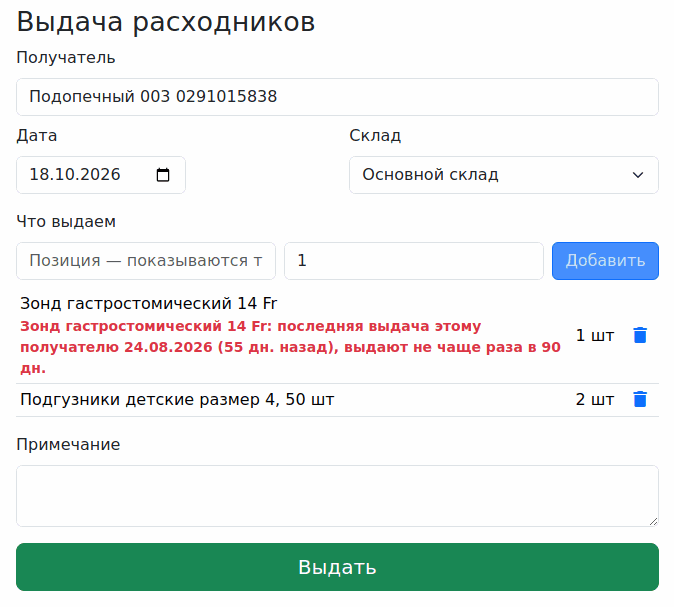
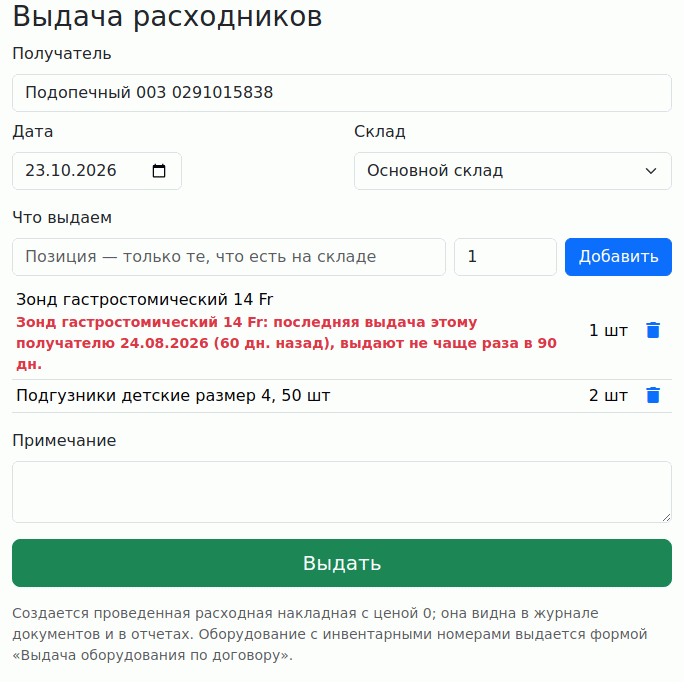
USER_GUIDE, GUIDE: top bar issue buttons, documentation link, issue journal statuses, "Mark", below minimum block on the main page; screenshots of the consumables issue, stock report and recipient card retaken

diff --git a/docs/GUIDE.ru.md b/docs/GUIDE.ru.md
@@ -17,7 +17,7 @@ SQS_LANG=ru docker compose up -d --build      # http://127.0.0.1:8083, вход 
 
 ## Начальная настройка
 
-1. **Профиль для благотворительной организации** — оставляет в меню нужное для выдачи (около 30 пунктов из 90) и выставляет настройки: учёт по серийным номерам, запрет минусовых остатков, цена выдачи 0. На главной не показываются денежные плитки (наличные, безнал, долги) и графики доходов; журнал «Продажи» называется «Выдачи» и открывается со статусом «Все» (проведённые выдачи видны сразу, возврат делается отсюда), в нём нет кнопок доставки, ТТН и гарантийного талона; группы документов «Продажи» и «Закупки» называются «Выдача» и «Поступление», «Расходная накладная» — «Выдача (накладная)», «Возврат от покупателя» — «Возврат от получателя», группа отчётов и отчёт «Закупки» — «Поступление», на странице отчёта — «Отчёт по поступлению» и разделы «Поступление по товарам», «… по поставщикам» и т. д. (название, изменённое вручную в «Настройке меню», профиль не трогает); в формах выдачи и возврата поле «Получатель», нет кассы, цен, скидки и оплаты (цена выдачи всегда 0, оплата не записывается); накладная печатается формой «Выдача № …», «Выдал / Получатель», возврат — «Вернул / Принял», обе без цен и оплаты. Строка «Выдал» — название организации из «Система → Данные компании». Возврат по выдаче, сделанной до включения профиля с ценами, сохраняет цены этой выдачи, оплата по нему не записывается, и он остаётся в статусе «Ожидает оплаты».
+1. **Профиль для благотворительной организации** — оставляет в меню нужное для выдачи (около 30 пунктов из 90) и выставляет настройки: учёт по серийным номерам, запрет минусовых остатков, цена выдачи 0. На главной не показываются денежные плитки (наличные, безнал, долги) и графики доходов, блок «Критическое количество» называется «Ниже минимального остатка» (без колонки «Поставщик», заголовок ведёт на одноимённый отчёт); журнал «Продажи» называется «Выдачи» и открывается со статусом «Все» (проведённые выдачи видны сразу, возврат делается отсюда), статусы — «Все», «Проведенные», «Не проведенные», колонка «Получатель», без «Заказа» и «Суммы», вверху кнопки «Выдача расходников» и «Выдача оборудования» (без этих форм у пользователя — «Новая выдача», накладная), в нём нет кнопок доставки, ТТН и гарантийного талона; кнопки вверху страниц (оперативное меню роли) — «Выдачи», «Выдача расходников», «Выдача оборудования по договору» вместо «Номенклатура» и «Общий журнал» (меню, настроенное вручную в «Система → Роли», профиль не трогает); пункт меню «Документация» ведёт на инструкцию склада ([USER_GUIDE.ru.md](USER_GUIDE.ru.md) на GitHub), «Тех. поддержки» (сайт автора Zippy) нет; служебный контрагент «Физ. лицо» (розничный покупатель Zippy) выключается, если по нему нет документов; в «Состоянии складов» колонки «Артикул» и «Бренд» показываются, только если хоть у одной позиции они заполнены; группы документов «Продажи» и «Закупки» называются «Выдача» и «Поступление», «Расходная накладная» — «Выдача (накладная)», «Возврат от покупателя» — «Возврат от получателя», группа отчётов и отчёт «Закупки» — «Поступление», на странице отчёта — «Отчёт по поступлению» и разделы «Поступление по товарам», «… по поставщикам» и т. д. (название, изменённое вручную в «Настройке меню», профиль не трогает); в формах выдачи и возврата поле «Получатель», нет кассы, цен, скидки и оплаты (цена выдачи всегда 0, оплата не записывается); накладная печатается формой «Выдача № …», «Выдал / Получатель», возврат — «Вернул / Принял», обе без цен и оплаты. Строка «Выдал» — название организации из «Система → Данные компании». Возврат по выдаче, сделанной до включения профиля с ценами, сохраняет цены этой выдачи, оплата по нему не записывается, и он остаётся в статусе «Ожидает оплаты».
 
    ```bash
    docker exec -u www-data squirrelstock-web-1 php cli/charity-profile.php
@@ -63,7 +63,7 @@ SQS_LANG=ru docker compose up -d --build      # http://127.0.0.1:8083, вход 
 
 ## Получатели
 
-Получатель — контрагент в «Справочники → Контрагенты». Признаки получателя — три: «подопечный», «по запросу» (семьи и учреждения вроде пансионата, которым выдают по запросу) и «снят с опеки». В профиле благотворительной организации признак выбирается списком «Признак получателя» в форме контрагента и виден рядом с именем в списке; хранится он тегом контрагента, поэтому по нему работает отбор в списке контрагентов («Признаки и теги» над списком) и в отчёте «Получатели по месяцам». В профиле форма контрагента без торговых полей (холдинг, тип цены, ЕГРПОУ, юр. лицо, адрес доставки, подписки, Viber, Telegram) и без режима лидов; тип «Покупатель» называется «Получатель», новый контрагент — сразу получатель. Своих полей у получателя нет, и для хосписа они не нужны: замечания вроде «как проехать, код домофона» пишутся в «Примечание» контрагента (в списке — значок с подсказкой), а деление вроде «отделение» или «выездная служба» — тегом, по которому работает тот же отбор. Справочник проверен на 5 000 контрагентах: список открывается за секунду, подсказка в документе — за доли секунды.
+Получатель — контрагент в «Справочники → Контрагенты». Признаки получателя — три: «подопечный», «по запросу» (семьи и учреждения вроде пансионата, которым выдают по запросу) и «снят с опеки». В профиле благотворительной организации признак выбирается списком «Признак» в форме контрагента и виден рядом с именем в списке; хранится он тегом контрагента, поэтому по нему работает отбор в списке контрагентов («Признак и теги» над списком) и в отчёте «Получатели по месяцам». В профиле форма контрагента без торговых полей (холдинг, тип цены, ЕГРПОУ, юр. лицо, адрес доставки, подписки, Viber, Telegram) и без режима лидов; тип «Покупатель» называется «Получатель», новый контрагент — сразу получатель. Своих полей у получателя нет, и для хосписа они не нужны: замечания вроде «как проехать, код домофона» пишутся в «Примечание» контрагента (в списке — значок с подсказкой), а деление вроде «отделение» или «выездная служба» — тегом, по которому работает тот же отбор. Справочник проверен на 5 000 контрагентах: список открывается за секунду, подсказка в документе — за доли секунды.
 
 ## Расходные материалы
 

diff --git a/docs/USER_GUIDE.ru.md b/docs/USER_GUIDE.ru.md
@@ -2,15 +2,15 @@
 
 Короткие ответы на вопрос «как сделать». Настройка программы и подробности — в [GUIDE.ru.md](GUIDE.ru.md). Все имена и номера в примерах вымышленные.
 
-**Где меню.** Кнопка ☰ в левом верхнем углу открывает меню. Меню само раскрывается до пункта открытой страницы, сам пункт подсвечен. Если меню нужно всё время, нажмите булавку вверху меню: оно перестанет прятаться при переходе на другую страницу (на телефоне меню всё равно прячется, чтобы не закрывать экран). Это то же, что снять галочку «Скрывать боковое меню» в профиле. Ниже путь записан так: «Сервисные страницы → Выдача расходников». Ваш профиль и выход — под именем пользователя справа вверху.
+**Где меню.** Кнопка ☰ в левом верхнем углу открывает меню. Меню само раскрывается до пункта открытой страницы, сам пункт подсвечен. Если меню нужно всё время, нажмите булавку вверху меню: оно перестанет прятаться при переходе на другую страницу (на телефоне меню всё равно прячется, чтобы не закрывать экран). Это то же, что снять галочку «Скрывать боковое меню» в профиле. Ниже путь записан так: «Сервисные страницы → Выдача расходников». Ваш профиль и выход — под именем пользователя справа вверху. Кнопки вверху страницы — «Выдачи», «Выдача расходников», «Выдача оборудования по договору» — открывают эти страницы без меню (на телефоне их нет, только меню). Пункт меню «Документация» открывает эту инструкцию.
 
-**Провести.** Документ меняет остатки, только когда он проведён: кнопка «Провести» внизу документа. «Сохранить» оставляет черновик. Формы «Выдача расходников» и «Выдача оборудования по договору» проводят документ сами.
+**Провести.** Документ меняет остатки, только когда он проведён: кнопка «Провести» внизу документа. «Сохранить» оставляет черновик. Формы «Выдача расходников» и «Выдача оборудования по договору» проводят документ сами. Все выдачи и возвраты — в **Журналы → Выдачи**; «Статус» «Не проведенные» показывает черновики, «Проведенные» — только проведённые документы.
 
 ## 1. Выдать расходники
 
 Меню: **Сервисные страницы → Выдача расходников**. Форма короткая, работает и с телефона.
 
-1. «Получатель»: начните вводить имя и выберите из подсказки. Если такого получателя ещё нет, допишите имя полностью: он будет добавлен в справочник. Признак («подопечный», «по запросу», «снят с опеки»), адрес и телефон потом укажите в **Справочники → Контрагенты**: щёлкните имя, выберите «Признак получателя», нажмите «Сохранить». Признак виден рядом с именем в списке, по нему можно отобрать список («Признаки и теги» над списком). Как найти дом, код домофона и другие замечания пишите в «Примечание» там же; отделение или выездную службу можно указать тегом.
+1. «Получатель»: начните вводить имя и выберите из подсказки. Если такого получателя ещё нет, допишите имя полностью: он будет добавлен в справочник. Признак («подопечный», «по запросу», «снят с опеки»), адрес и телефон потом укажите в **Справочники → Контрагенты**: щёлкните имя, выберите «Признак», нажмите «Сохранить». Признак виден рядом с именем в списке, по нему можно отобрать список («Признак и теги» над списком). Как найти дом, код домофона и другие замечания пишите в «Примечание» там же; отделение или выездную службу можно указать тегом.
 2. Проверьте «Дату» и «Склад».
 3. «Что выдаем»: начните вводить название позиции. В подсказке только то, что есть на складе, с остатком. Укажите количество и нажмите «Добавить». Так добавьте все позиции.
 4. При необходимости заполните «Примечание».
@@ -106,7 +106,7 @@
 
 Что увидите:
 
-- телефон, адрес, теги и «Кем направлен» (из договоров);
+- телефон, адрес, признак, теги (если есть) и «Кем направлен» (из договоров);
 - «Оборудование на руках» — что выдано по договору и не возвращено: инвентарный номер, договор, срок; кнопка «Продлить» продлевает срок и возвращает в карточку;
 - «Выданные расходники» — по каждой позиции: выдано, возвращено, итого получил, число выдач; ниже то же по месяцам (возврат вычитается из месяца выдачи);
 - «Выдачи и возвраты» — список документов, номер открывает документ;
@@ -146,7 +146,7 @@
 
 ![Состояние складов](img/store-items.png)
 
-Что пора докупать — **Отчеты → Склад → Ниже минимального остатка**: позиции, у которых остаток меньше минимального, и сколько не хватает. Минимум задаётся в карточке позиции («Справочники → Товары → Номенклатура»).
+Что пора докупать — **Отчеты → Склад → Ниже минимального остатка**: позиции, у которых остаток меньше минимального, и сколько не хватает. Тот же список коротко — на главной странице, блок «Ниже минимального остатка» (его заголовок открывает отчёт). Минимум задаётся в карточке позиции («Справочники → Товары → Номенклатура»).
 
 ## 7. Акт списания в Excel
 
